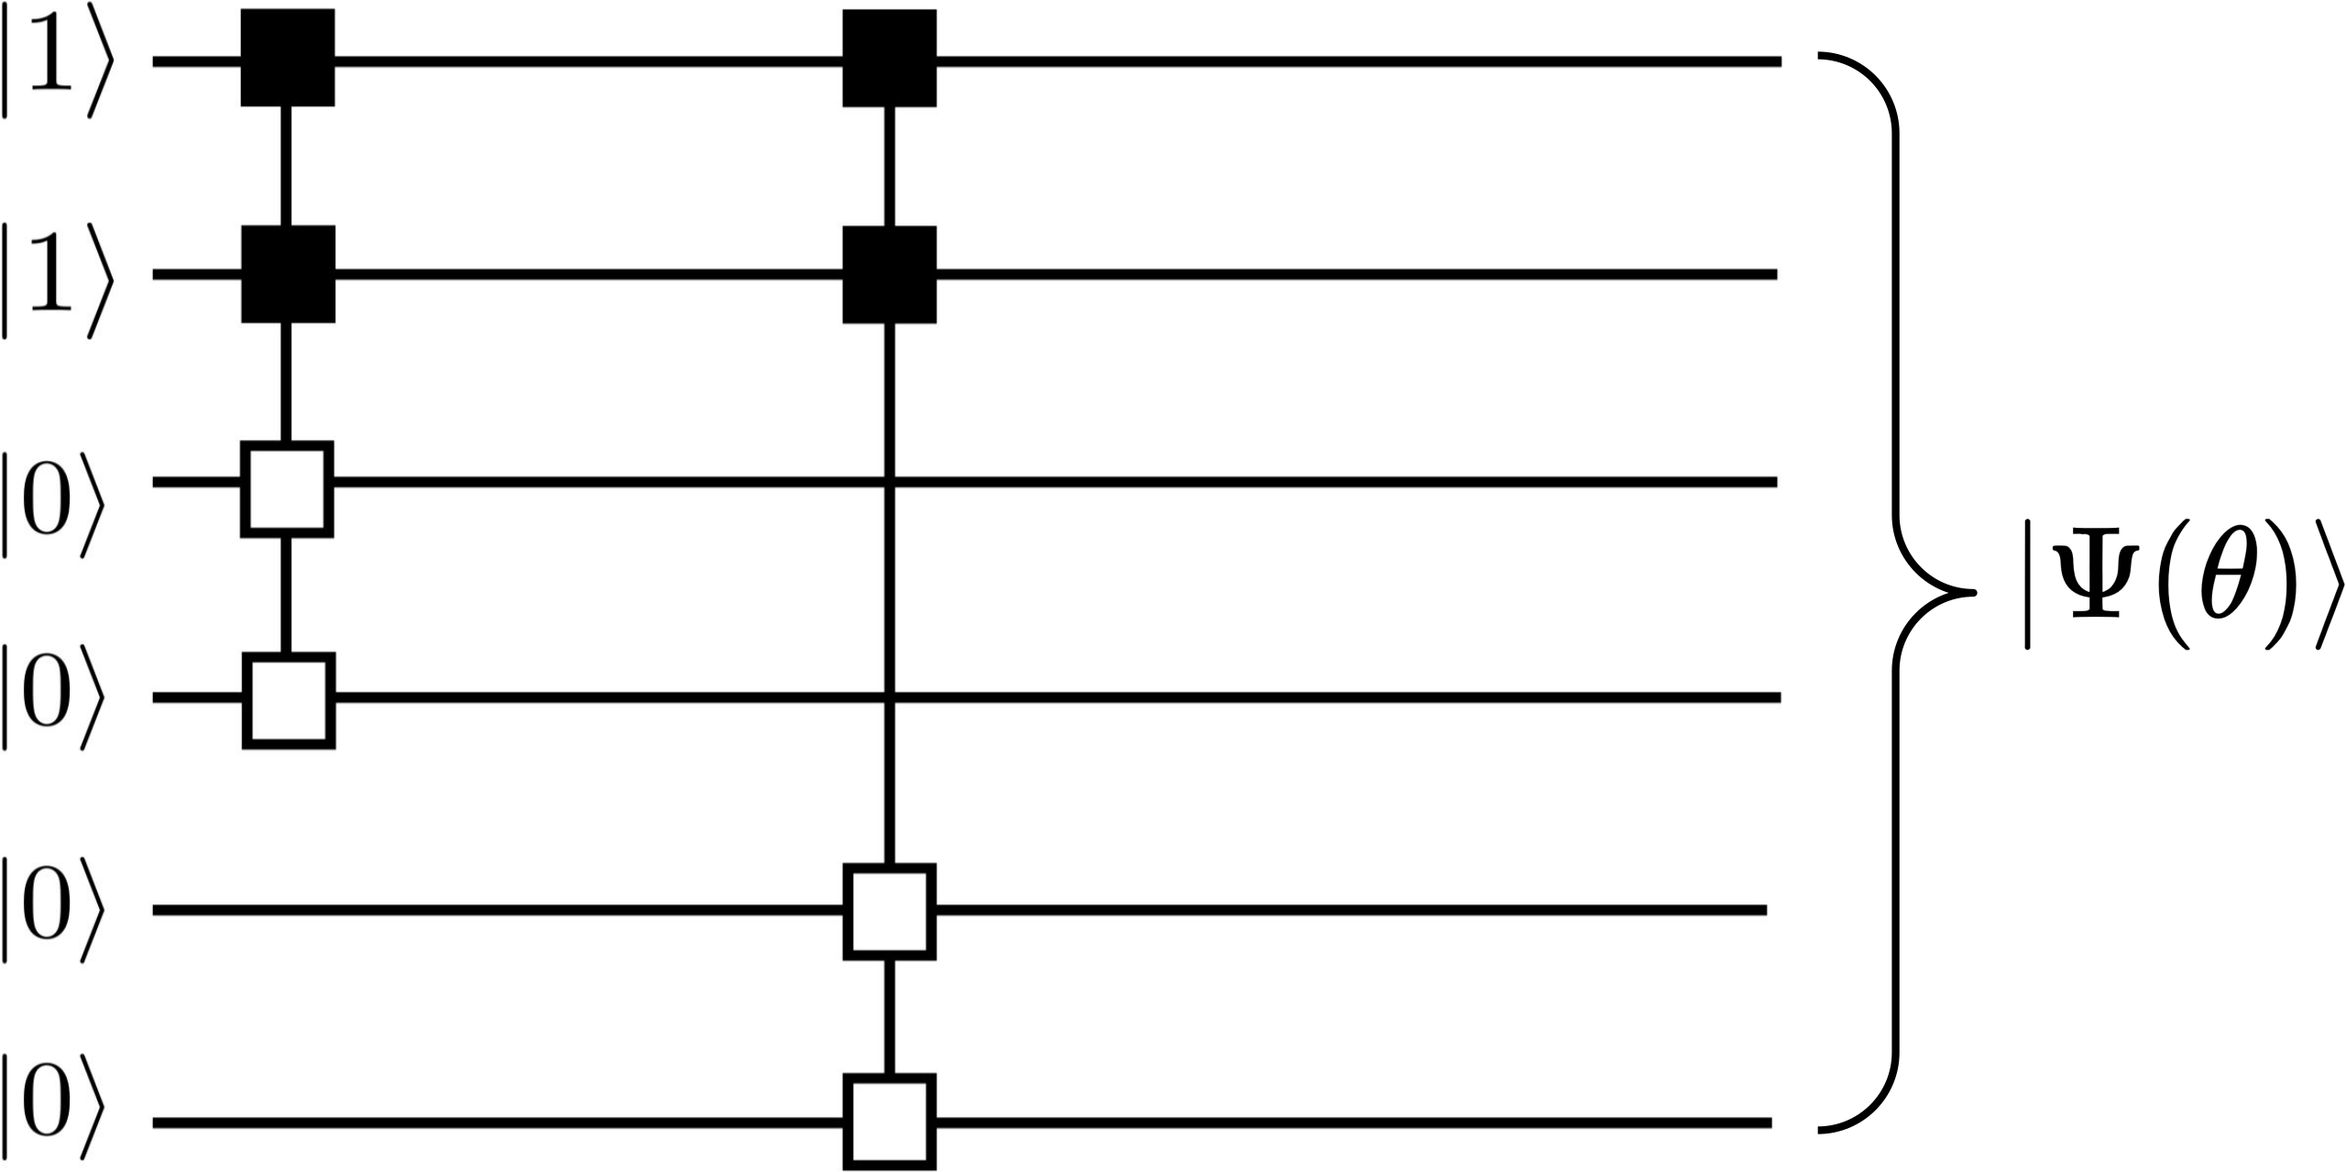
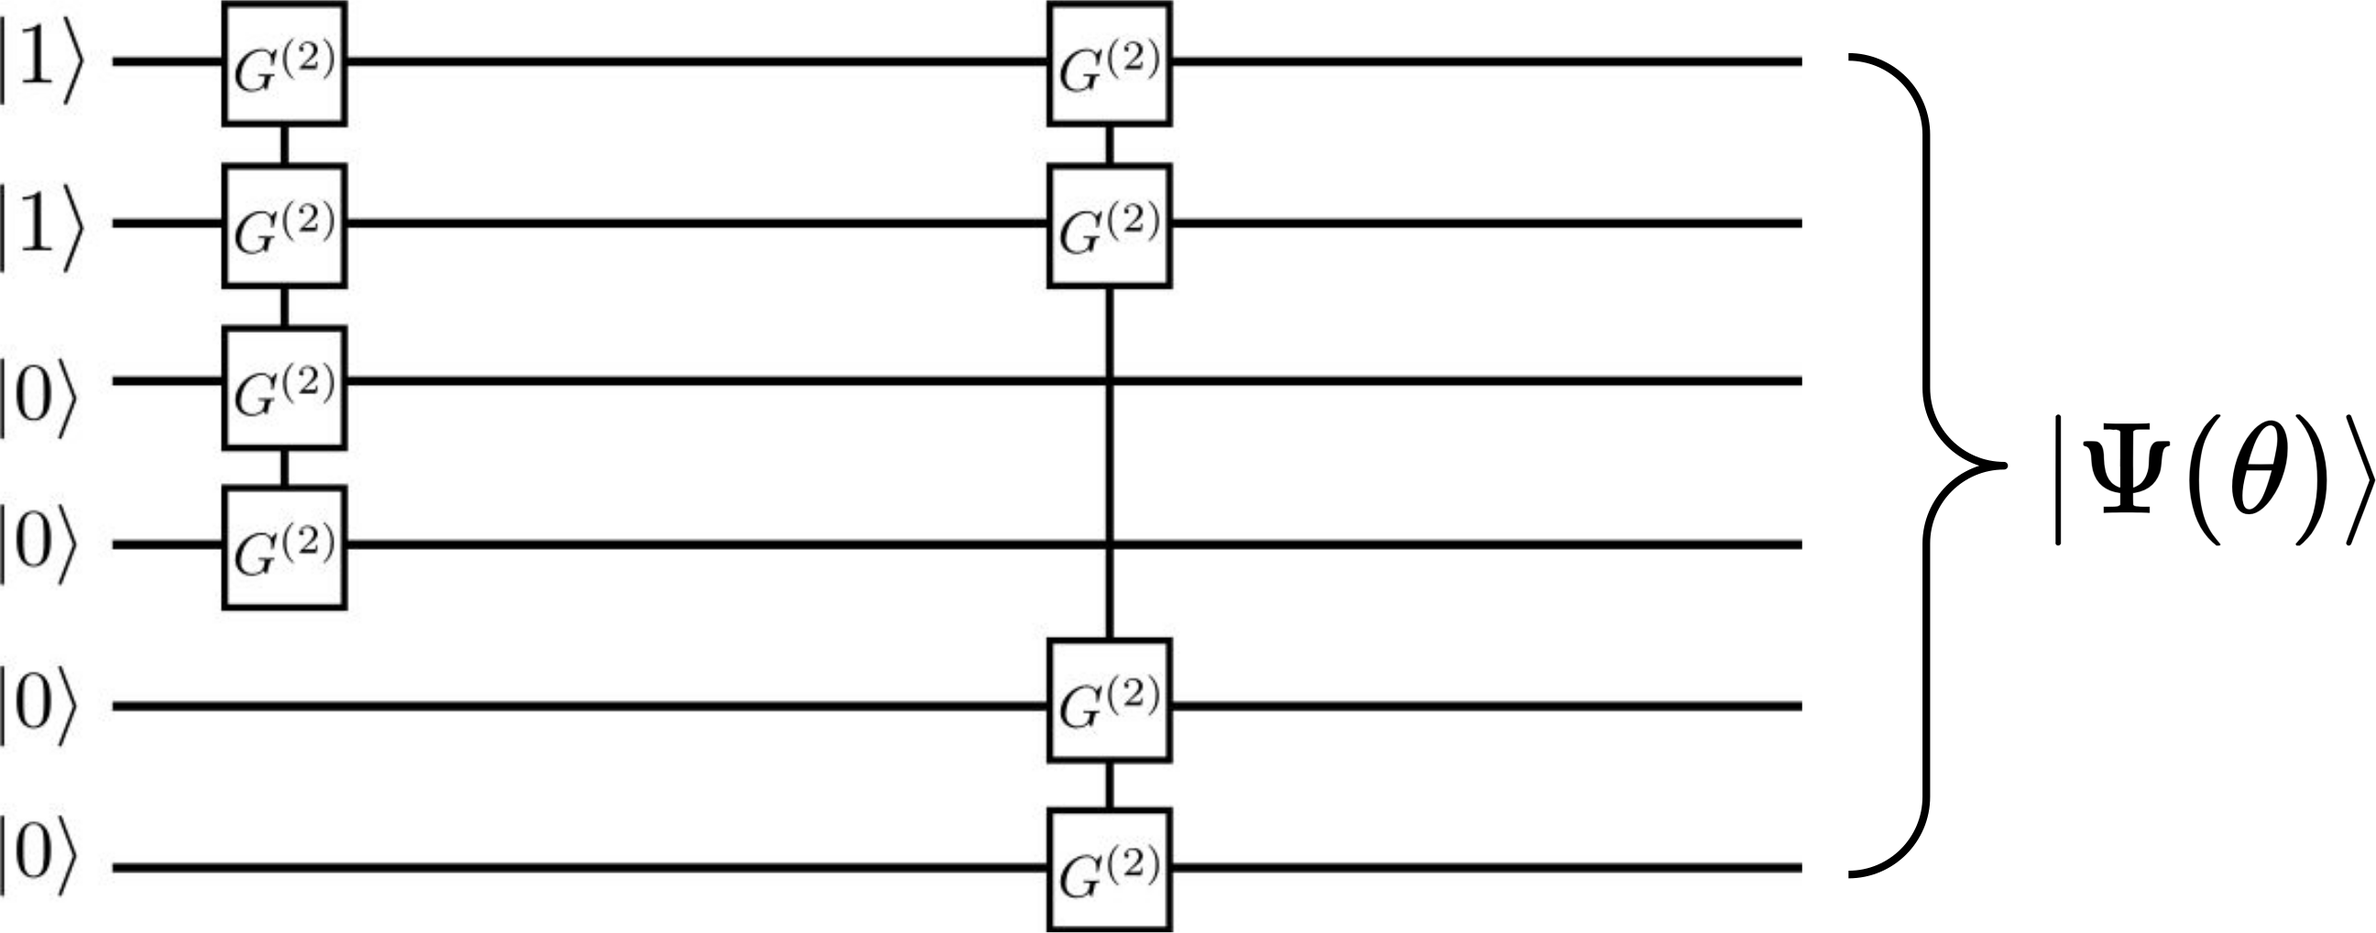
Update circuit figure and fix reference

Changed region(s): [[0.0, 0.0, 0.8125, 1.0], [0.8125, 0.4263, 1.0, 0.5786]]

diff --git a/demonstrations/tutorial_mol_geo_opt.py b/demonstrations/tutorial_mol_geo_opt.py
@@ -82,9 +82,8 @@ The quantum algorithm will be described as follows:
 #. Define the cost function :math:`g(\theta, x) = \langle \Psi(\theta) \vert H(x) \vert
    \Psi(\theta) \rangle`.
 
-#. Set the initial values for the circuit parameters :math:`\theta` and the
-   nuclear coordinates :math:`x` and solve the optimization problem
-   :math:`E = \min_{\{\theta, x\}} g(\theta, x)`
+#. Initialize the circuit and the Hamiltonian parameters and minimize the cost function
+   :math:`g(\theta, x)`
 
 Let's get started! ⚛
 
@@ -100,17 +99,18 @@ from functools import partial
 import matplotlib.pyplot as plt
 
 ##############################################################################
-# The second step is to specify the molecule for which we want to find the equilibrium
+# Now, we specify the molecule for which we want to find the equilibrium
 # geometry. In this example, we want to optimize the geometry of the trihydrogen cation
-# (:math:`\mathrm{H}_3^+`) consisted of three hydrogen atoms as shown in the figure above.
-# This is done by providing a list with the symbols of the atomic species and a 1D array
-# with the initial set of nuclear coordinates.
+# (:math:`\mathrm{H}_3^+`) consisted of three hydrogen atoms (see figure above).
+# This is done by providing a list with the symbols of the atomic species and a
+# 1D array with the initial set of nuclear coordinates in
+# `atomic units <https://en.wikipedia.org/wiki/Hartree_atomic_units>`_ (Bohr radii).
 
 symbols = ["H", "H", "H"]
 x = np.array([0.028, 0.054, 0.0, 0.986, 1.610, 0.0, 1.855, 0.002, 0.0])
 
 ##############################################################################
-# Note that the size of the array ``x`` with the nuclear coordinates is ``3*len(symbols)``.
+# The size of the array ``x`` with the nuclear coordinates is ``3*len(symbols)``.
 # The :func:`~.pennylane_qchem.qchem.read_structure` function can also be used to read
 # the molecular structure from a external file using the `XYZ format
 # <https://en.wikipedia.org/wiki/XYZ_file_format>`_ XYZ format or any other format
@@ -118,16 +118,16 @@ x = np.array([0.028, 0.054, 0.0, 0.986, 1.610, 0.0, 1.855, 0.002, 0.0])
 # For more details see the tutorial :doc:`tutorial_quantum_chemistry`.
 
 ##############################################################################
-# Next, we need to build the parametrized Hamiltonian :math:`H(x)`. For a molecule, this
-# is the second-quantized electronic Hamiltonian for a given set of the nuclear coordinates
-# :math:`x`:
+# Next, we need to build the parametrized Hamiltonian :math:`H(x)`. For a molecule,
+# this is the second-quantized electronic Hamiltonian for a given set of the
+# nuclear coordinates :math:`x`:
 #
 # .. math::
 #
 #     H(x) = \sum_{pq} h_{pq}(x)c_p^\dagger c_q +
 #     \frac{1}{2}\sum_{pqrs} h_{pqrs}(x) c_p^\dagger c_q^\dagger c_r c_s.
 #
-# In the equation above the indices of the summation run over the basis of
+# In the equation above the indices :math:`p, q, r, s` run over the basis of
 # Hartree-Fock molecular orbitals, the operators :math:`c^\dagger` and :math:`c` are
 # respectively the electron creation and annihilation operators, and :math:`h_{pq}(x)`
 # and :math:`h_{pqrs}(x)` are the one- and two-electron integrals carrying the dependence on
@@ -139,82 +139,87 @@ x = np.array([0.028, 0.054, 0.0, 0.986, 1.610, 0.0, 1.855, 0.002, 0.0])
 #
 #     H(x) = \sum_j h_j(x) \prod_i^{N} \sigma_i^j,
 #
-# whose expectation value can be evaluated using a quantum computer. :math:`h_j(x)` are the
-# expansion coefficients inheriting the dependence on the coordinates :math:`x`,
+# whose expectation value can be evaluated using a quantum computer. The expansion
+# coefficients :math:`h_j(x)` inherit the dependence on the coordinates :math:`x`,
 # the operators :math:`\sigma_i` represents the Pauli group :math:`\{I, X, Y, Z\}` and
-# :math:`N` is the number of qubits.
+# :math:`N` is the number of qubits required to represent the electronic wave function
+# as we will discuss in the next section.
 #
-# We define the function ``H(x)`` to construct the parametrized qubit Hamiltonian
-# of the trihydrogen cation, described in a minimal basis set, using the
+# We define the function ``H(x)`` to build the parametrized qubit Hamiltonian
+# of the trihydrogen cation, described with a minimal basis set, using the
 # :func:`~.pennylane_qchem.qchem.molecular_hamiltonian` function.
 
 def H(x):
     return qml.qchem.molecular_hamiltonian(symbols, x, charge=1, mapping="jordan_wigner")[0]
 
 ##############################################################################
+# Note that we have used the keyword argument ``charge`` to specify the net charge
+# of the molecule. The :func:`~.pennylane_qchem.qchem.molecular_hamiltonian` function
+# allows us the user to define other keyword arguments to generate the Hamiltonian
+# of more complicated systems.
+#
 # The variational quantum circuit
 # -------------------------------
 #
 # Now, we need to define the quantum circuit to prepare the electronic ground-state
 # :math:`\vert \Psi(\theta)\rangle` of the :math:`\mathrm{H}_3^+` molecule. Representing
 # the wave function of this molecule requires six qubits to encode the occupation number
-# of the active spin-orbitals which can be populated by the two electrons in the
-# molecule. In order to capture the effects of electronic correlations [#kohanoff2006]_,
-# we need to prepare the :math:`N`-qubit in a superposition of the Hartree-Fock state
+# of the molecular spin-orbitals which can be populated by the two electrons in the
+# molecule. To capture the effects of electronic correlations [#kohanoff2006]_,
+# we need to prepare the :math:`N`-qubit in a superposition of the Hartree-Fock (HF) state
 # :math:`\vert 110000 \rangle` with other states that differ by a double- or
 # single-excitation with respect to the HF state. For example, the state
-# :math:`\vert 000011 \rangle` is obtained by exciting two particles from qubits  0, 1 to
-# 4, 5. Similarly, the state encodes a double excitation of the reference HF state
-# where the state :math:`\vert 011000 \rangle` corresponds to a single excitation
-# from qubit 0 to 2. This can be done using the particle-conserving single- and
-# double-excitation gates [#qchemcircuits]_ implemented in the form of Givens rotations
-# in PennyLane. For more details see the tutorial :doc:`tutorial_givens_rotations`.
+# :math:`\vert 000011 \rangle` is obtained by exciting two particles from qubits 0, 1 to
+# 4, 5. Similarly, the state :math:`\vert 011000 \rangle` corresponds to a single excitation
+# from qubit 0 to 2. This can be done using the single-excitation and
+# double-excitation gates :math:`G` and :math:`G^{(2)}` [#qchemcircuits]_ implemented
+# in the form of Givens rotations in PennyLane. For more details see the tutorial
+# :doc:`tutorial_givens_rotations`.
 #
-# Here, we use an adaptive algorithm to select the excitation
-# operation included in the variational quantum circuit. The algorithm, which is
+# In addition, here we use an adaptive algorithm to select the excitation
+# operations included in the variational quantum circuit. The algorithm, which is
 # described in more details in the tutorial :doc:`tutorial_adaptive_algorithm`,
 # proceeds as follows:
 #
-# #. Generate the lists with the indices of the qubits involved in all single- and
-#    double-excitations using the func:`~.pennylane_qchem.qchem.excitation` function.
+# #. Generate the indices of the qubits involved in all single- and
+#    double-excitations using the :func:`~.pennylane_qchem.qchem.excitation` function.
 #    For example, the indices of the singly-excited state :math:`\vert 011000 \rangle`
 #    are given by the list ``[0, 2]``. Similarly, the indices of the doubly-excited
 #    state :math:`\vert 000011 \rangle` are ``[0, 1, 4, 5]``.
 #
 # #. Construct the circuit using all double-excitation gates. Compute the gradient
-#    of the expectation value
-#    :math:`\langle \Psi(\theta) \vert H(x) \vert \Psi(\theta) \rangle` with respect
-#    to each double-excitation gate and retain only those with non-zero gradient.
+#    of the cost function :math:`g(\theta, x)` with respect to each double-excitation
+#    gate and retain only those with non-zero gradient.
 #
 # #. Include the selected double-excitation gates and repeat the process for the
 #    single-excitation gates.
 #
-# #. Build the final variational quantum circuit by including the selected excitation
-#    operations.
+# #. Build the final variational quantum circuit by including the selected gates.
 #
 # For the :math:`\mathrm{H}_3^+` molecule in a minimal basis set we have a total of eight
-# excitation operations. After applying the adaptive algorithm the final quantum
-# circuit contains two double-excitation operations that act on the qubits ``[0, 1, 2, 3]``
-# and ``[0, 1, 4, 5]``. The circuit is shown in the figure below.
+# excitations of the HF reference state. After applying the adaptive algorithm the final
+# quantum circuit contains only two double-excitation operations that act on the qubits
+# ``[0, 1, 2, 3]`` and ``[0, 1, 4, 5]``. The circuit is shown in the figure below.
 #
 # |
 #
 # .. figure:: /demonstrations/mol_geo_opt/fig_circuit.png
-#     :width: 50%
+#     :width: 70%
 #     :align: center
 #
 # |
 #
-# The quantum circuit above is implemented by the ``circuit`` function
+# This quantum circuit is implemented by the ``circuit`` function below
+
+hf = qml.qchem.hf_state(electrons=2, orbitals=6)
 
 def circuit(params, wires):
-    hf_state = np.array([1, 1, 0, 0, 0, 0])
-    qml.BasisState(hf_state, wires=wires)
+    qml.BasisState(hf, wires=wires)
     qml.DoubleExcitation(params[0], wires=[0, 1, 2, 3])
     qml.DoubleExcitation(params[1], wires=[0, 1, 4, 5])
 
 ##############################################################################
-# The ``DoubleExcitation`` operations acting on the HF state allow us to prepare
+# The ``DoubleExcitation`` operations acting on the HF state prepare
 # the trial state
 #
 # .. math::
@@ -225,16 +230,17 @@ def circuit(params, wires):
 #     \mathrm{sin}(\theta_1)\vert001100\rangle,
 #
 # where :math:`\theta_1` and :math:`\theta_2` are the circuit parameters that need to be
-# optimized to find the electronic ground state of the trihydrogen cation.
+# optimized to find the ground-state equilibrium geometry of the molecule.
 #
 # The cost function and the nuclear gradients
 # -------------------------------------------
 #
 # The next step is to define the cost function
-# :math:`g(\theta, x) = \langle \Psi(\theta) \vert H(x) \vert\Psi(\theta) \rangle` to
-# evaluate the expectation value of the *parametrized* Hamiltonian :math:`H(x)` in the
-# trial state :math:`\vert\Psi(\theta)\rangle`. First, we define the device to compute
-# the expectation value. In this example, we use PennyLane's qubit simulator:
+# :math:`g(\theta, x) = \langle \Psi(\theta) \vert H(x) \vert\Psi(\theta) \rangle`. It
+# evaluates the expectation value of the *parametrized* Hamiltonian :math:`H(x)` in the
+# trial state :math:`\vert\Psi(\theta)\rangle`. First, we define the quantum device used
+# to compute the expectation value. In this example, we use the ``default.qubit``
+# simulator of PennyLane:
 
 dev = qml.device("default.qubit", wires=6)
 
@@ -251,39 +257,37 @@ def cost(params, x):
 # computed in the state prepared by the ``circuit`` function for a given set of the
 # circuit parameters ``params`` and the nuclear coordinates ``x``.
 #
-# In order to to minimize the cost function :math:`g(\theta, x)` using a gradient-based
-# method we have to compute the gradients with respect to the both the circuit parameters
-# :math:`\theta` *and* the nuclear coordinates :math:`x` (nuclear gradients). The circuit
-# gradients are computed analytically using the automatic differentiation techniques available
-# in PennyLane. On the other hand, the nuclear gradients are evaluated by taking the
-# expectation value of the gradient of the electronic Hamiltonian,
+# In order to minimize the cost function :math:`g(\theta, x)` we use a gradient-based
+# method. To that aim, we have to compute the gradients with respect to the both the
+# circuit parameters :math:`\theta` *and* the nuclear coordinates :math:`x` (nuclear gradients).
+# The circuit gradients are computed analytically using the automatic differentiation
+# techniques available in PennyLane. On the other hand, the nuclear gradients are evaluated
+# by taking the expectation value of the gradient of the electronic Hamiltonian,
 #
 # .. math::
 #
 #     \nabla_x g(\theta, x) = \langle \Psi(\theta) \vert \nabla_x H(x) \vert \Psi(\theta) \rangle.
 #
 # We use the :func:`~.pennylane.finite_diff` function to compute the gradient of
-# the Hamiltonian using a central-difference approximation and the PennyLane class
-# :class:`~.pennylane.ExpvalCost` to evaluate the expectation value of
+# the Hamiltonian using a central-difference approximation. Then, the PennyLane class
+# :class:`~.pennylane.ExpvalCost` is used to evaluate the expectation value of
 # the gradient components :math:`\frac{\partial H(x)}{\partial x_i}`. This is implemented by
 # the function ``grad_x``:
-
 
 def grad_x(x, params):
     grad_h = qml.finite_diff(H)(x)
     grad = [qml.ExpvalCost(circuit, obs, dev)(params) for obs in grad_h]
     return np.array(grad)
 
-
 ##############################################################################
 # Optimization of the molecular geometry
 # --------------------------------------
 #
 # Now we proceed to minimize our cost function to find the ground state energy and the
-# equilibrium geometry of the :math:`\mathrm{H}_3^+` molecule. The circuit parameters and
-# the nuclear coordinates will be jointly optimized at each optimization step. We note
-# that this approach does not require a nested VQE optimization of the circuit parameters
-# for each set of the nuclear coordinates.
+# equilibrium geometry of the :math:`\mathrm{H}_3^+` molecule. As a reminder, 
+# the circuit parameters and the nuclear coordinates will be jointly optimized at
+# each optimization step. Note that this approach does not require a nested VQE
+# optimizations of the circuit parameters for each set of the nuclear coordinates.
 #
 # We start by defining the classical optimizers:
 
@@ -299,18 +303,22 @@ theta = [0.0, 0.0]
 
 ##############################################################################
 # Setting the angles :math:`\theta_1` and :math:`\theta_2` to zero implies that
-# the initial electronic state :math:`\vert\Psi(\theta_1, \theta_2)\rangle`prepared
-# by the ``circuit`` function is the Hartree-Fock (HF) state. The initial set of nuclear
+# the initial electronic state :math:`\vert\Psi(\theta_1, \theta_2)\rangle` 
+# is approximated to the Hartree-Fock (HF) state. The initial set of nuclear
 # coordinates :math:`x`, defined at the beginning of the tutorial, was computed
 # classically within the HF approximation using the GAMESS program [#ref_gamess]_.
+# This is a natural choice for the starting geometry that we are aiming to correct
+# due to the electronic correlation effects included in the trial state
+# :math:`\vert\Psi(\theta)\rangle`.
 #
-# We carry out the optimization over a maximum of 100 steps. The circuit parameters and
-# the nuclear coordinates should be optimized until the maximum component of the
-# nuclear gradient :math:`\nabla_x g(\theta,x)` is less than or equal to
-# :math:`10^{-5}` Hartree/Bohr. Typically, this is the convergence criterion used for
-# optimizing molecular geometries in quantum chemistry simulations.
+# We carry out the optimization over a maximum of 100 steps. In this example
+# The circuit parameters and the nuclear coordinates are optimized until the
+# maximum component of the nuclear gradient :math:`\nabla_x g(\theta,x)` is
+# less than or equal to :math:`10^{-5}` Hartree/Bohr. Typically, this is the
+# convergence criterion used for optimizing molecular geometries in
+# quantum chemistry simulations.
 #
-# Finally, we use the lists ``energy`` and ``bond_length`` to keep track the
+# Finally, we use the lists ``energy`` and ``bond_length`` to keep track of the
 # value of the cost function :math:`g(\theta,x)` and the H-H bond length :math:`d`
 # (in Angstroms) of trihydrogen cation through the iterative procedure.
 
@@ -335,7 +343,7 @@ for n in range(100):
             )
         )
 
-    if np.max(grad_fn(x)) <= 1e-04:
+    if np.max(grad_fn(x)) <= 1e-05:
         break
 
 print("\n" "Final value of the ground-state energy = {:.8f} Ha".format(energy[-1]))
@@ -345,7 +353,7 @@ for i, atom in enumerate(symbols):
     print("  {:}    {:.4f}   {:.4f}   {:.4f}".format(atom, x[3 * i], x[3 * i + 1], x[3 * i + 2]))
 
 ##############################################################################
-# Now, we plot the values of the ground state energy of the molecule, relative
+# Next, we plot the values of the ground state energy of the molecule, relative
 # to the exact value computed with the full configuration interaction (FCI) method,
 # and the of H-H bond lengths as the circuit parameters and the nuclear coordinates are
 # optimized by the variational quantum algorithm.
@@ -383,18 +391,18 @@ plt.subplots_adjust(wspace=0.3)
 plt.show()
 
 ##############################################################################
+# |
 # Notice that despite the fact that the ground-state energy is already converged
 # within chemical accuracy (:math:`0.001` Ha) after the fourth iteration, more
 # optimization steps are required to find the equilibrium bond length of the
 # molecule.
 #
-# The animated figure below uses stored snapshots of the atomic structure of the
+# The animated figure below shows snapshots of the atomic structure of the
 # trihydrogen cation as the quantum algorithm was searching for the equilibrium
 # geometry. For visualization purposes, the initial nuclear coordinates were
 # generated by perturbing the HF geometry. Note that the quantum algorithm
 # is able to find the correct optimized geometry of the :math:`\mathrm{H}_3^+`
-# molecule that corresponds to an equilateral triangle with the H atoms
-# located at the vertices.
+# molecule where the three H atoms are located at the vertices of an equilateral triangle.
 #
 # |
 #
@@ -404,6 +412,13 @@ plt.show()
 #
 # |
 #
+# To summarize, this tutorial shows that the scope of variational quantum algorithms can be
+# extended to perform quantum simulations of molecules involving both the electronic and
+# the nuclear degrees of freedom. The joint optimization scheme described here
+# is a generalization of the usual VQE algorithm where only the electronic
+# state is parametrized. By using the adaptive algorithm it is possible to reduce the
+# number of excitation gates in the quantum circuit to apply this algorithm to molecules
+# of increasing complexity [#geo_opt_paper]_.
 #
 # References
 # ----------
@@ -454,3 +469,9 @@ plt.show()
 #     S. Koseki, N. Matsunaga, K.A. Nguyen, S.Su, *et al.* "General atomic and molecular
 #     electronic structure system". `Journal of Computational Chemistry 14, 1347 (1993)
 #     <https://onlinelibrary.wiley.com/doi/10.1002/jcc.540141112>`__
+#
+# .. [#geo_opt_paper]
+#
+#     A. Delgado, J.M. Arrazola, S. Jahangiri, Z. Niu, J. Izaac, C. Roberts, N. Killoran.
+#     "Variational quantum algorithm for molecular geometry optimization".
+#     arXiv preprint
